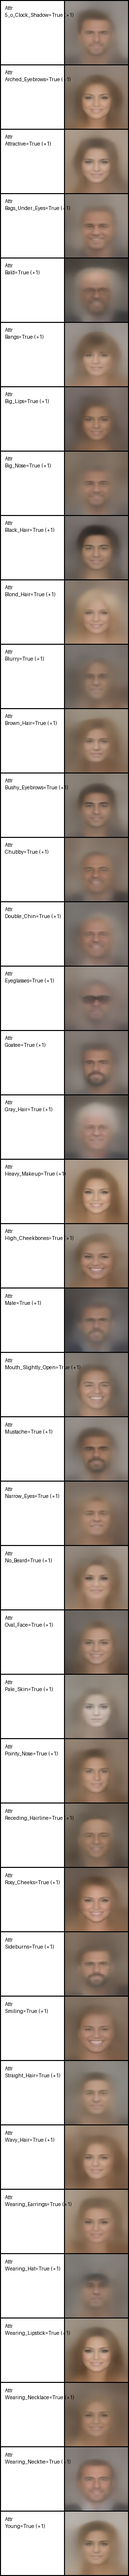
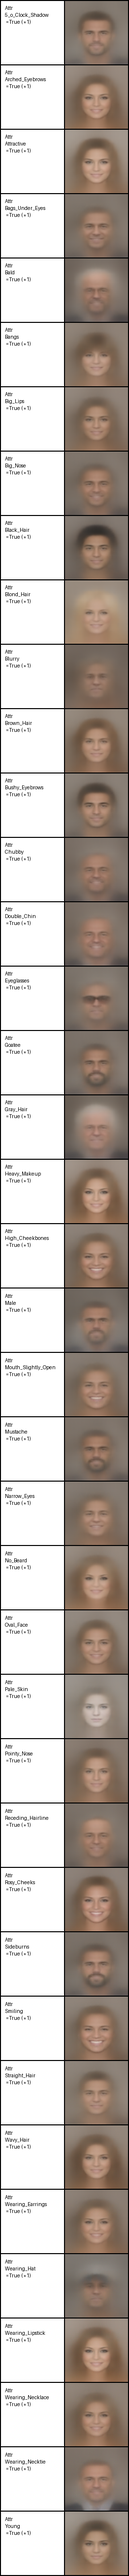
Feat: Fully Calculated test_only.png

diff --git a/src/core/experiment.py b/src/core/experiment.py
@@ -78,7 +78,7 @@ def save_result_image(
         draw.text((10, y_position + 10), label, fill=(0, 0, 0), font=font)
 
     result_image.save(output_path)
-    print(f"[Experiment] save_image success")
+    print(f"[Experiment] save_image succeed")
 
 
 def __not(
@@ -161,18 +161,18 @@ def run_vae_synthesized_attribute_experiment(
         dataloader = true_celeba_loader,
         device = experiment_config.device
     )
-    print(f"\r[Experiment] extract_average_latent(true_celeba_loader) success")
+    print(f"\r[Experiment] extract_average_latent(true_celeba_loader) succeed")
 
     false_vector = extract_average_latent(
         model = model,
         dataloader = false_celeba_loader,
         device = experiment_config.device
     )
-    print(f"\r[Experiment] extract_average_latent(false_celeba_loader) success")
+    print(f"\r[Experiment] extract_average_latent(false_celeba_loader) succeed")
 
     latent_vector = true_vector - false_vector
     latent_vector = latent_vector.to(experiment_config.device)
-    print(f"\r[Experiment] calculate latent_vector success")
+    print(f"\r[Experiment] Calculated latent_vector")
 
     test_images = []
     reconstructed_images = []
@@ -191,7 +191,7 @@ def run_vae_synthesized_attribute_experiment(
     test_images = torch.cat(test_images, dim=0)
     reconstructed_images = torch.cat(reconstructed_images, dim=0)
     transformed_images = torch.cat(transformed_images, dim=0)
-    print(f"\r[Experiment] apply attribute_vector success")
+    print(f"\r[Experiment] Applied attribute_vector")
 
     labels = [
         "Original",
@@ -294,7 +294,7 @@ def run_vae_multi_attribute_experiment(
             device = experiment_config.device
         )
         true_vector_list.append(true_vector)
-        print(f"\r[Experiment] extract_average_latent(true_celeba_loader_{i}) success")
+        print(f"\r[Experiment] extract_average_latent(true_celeba_loader_{i}) succeed")
 
     false_vector_list = []
     for i in range(filter_length):
@@ -304,14 +304,14 @@ def run_vae_multi_attribute_experiment(
             device = experiment_config.device
         )
         false_vector_list.append(false_vector)
-        print(f"\r[Experiment] extract_average_latent(false_celeba_loader_{i}) success")
+        print(f"\r[Experiment] extract_average_latent(false_celeba_loader_{i}) succeed")
 
     latent_vector_list = []
     for i in range(filter_length):
         latent_vector = true_vector_list[i] - false_vector_list[i]
         latent_vector = latent_vector.to(experiment_config.device)
         latent_vector_list.append(latent_vector)
-    print(f"\r[Experiment] calculate latent_vector success")
+    print(f"\r[Experiment] Calculated latent_vector")
 
     test_images = []
     reconstructed_images = []
@@ -348,7 +348,7 @@ def run_vae_multi_attribute_experiment(
         all_transformed_images = torch.cat(all_transformed_images, dim=0)
     else:
         all_transformed_images = torch.tensor([], device="cpu")
-    print(f"\r[Experiment] apply attribute_vector success")
+    print(f"\r[Experiment] Applied attribute_vector")
 
     labels = ["Original", "Reconstructed"]
     for i in range(filter_length):
@@ -383,7 +383,9 @@ def run_vae_multi_attribute_experiment(
 def run_vae_only_attribute_experiment(
         model: VAE,
         dataset_config: DatasetConfig,
-        experiment_config: ExperimentConfig
+        experiment_config: ExperimentConfig,
+        attr_output_path: Optional[str] = None,
+        attr_output_name: Optional[str] = None
     ) -> None:
     print(f"[Experiment] {"=" * 60}")
     print(f"[Experiment] VAE Only Attribute Experiment")
@@ -436,7 +438,7 @@ def run_vae_only_attribute_experiment(
             device = experiment_config.device
         )
         true_vector_list.append(true_vector)
-        print(f"\r[Experiment] extract_average_latent(true_celeba_loader_{i}) success")
+        print(f"\r[Experiment] extract_average_latent(true_celeba_loader_{i}) succeed")
 
     false_vector_list = []
     for i in range(filter_length):
@@ -446,14 +448,14 @@ def run_vae_only_attribute_experiment(
             device = experiment_config.device
         )
         false_vector_list.append(false_vector)
-        print(f"\r[Experiment] extract_average_latent(false_celeba_loader_{i}) success")
+        print(f"\r[Experiment] extract_average_latent(false_celeba_loader_{i}) succeed")
 
     latent_vector_list = []
     for i in range(filter_length):
         latent_vector = true_vector_list[i] - false_vector_list[i]
         latent_vector = latent_vector.to(experiment_config.device)
         latent_vector_list.append(latent_vector)
-    print(f"\r[Experiment] calculate latent_vector success")
+    print(f"\r[Experiment] Calculated latent_vector")
 
     attr_images = []
     with torch.no_grad():
@@ -461,7 +463,7 @@ def run_vae_only_attribute_experiment(
             latent_vector = experiment_config.scale[i] * latent_vector_list[i].unsqueeze(0)
             attr_images.append(model.decode(latent_vector).clamp(0.0, 1.0).cpu())
     attr_images = torch.cat(attr_images, dim=0)
-    print(f"\r[Experiment] calculate attr_images success")
+    print(f"\r[Experiment] Calculated attr_images")
 
     labels = []
     for i in range(filter_length):

diff --git a/src/core/dataset.py b/src/core/dataset.py
@@ -95,7 +95,7 @@ class CelebADataset(Dataset):
         if self.num_calc_samples:
             self.image_list = self.image_list[:self.num_calc_samples]
 
-        print(f"[Dataset] CelebADataset __init__ success ({len(self.image_list)})")
+        print(f"[Dataset] CelebADataset __init__ succeed ({len(self.image_list)})")
 
     def __len__(self) -> int:
         return len(self.image_list)
@@ -145,6 +145,6 @@ def get_celeba_loader(
         pin_memory = not (torch.backends.mps.is_available() and torch.backends.mps.is_built())
     )
 
-    print(f"[Dataset] get_celeba_loader success {f"({list(map(lambda x: x.value, filter_attr))}={filter_value})" if isinstance(filter_attr, list) and isinstance(filter_value, list) else (f"({filter_attr.value}={filter_value})" if isinstance(filter_attr, CelebAFeature) and isinstance(filter_value, bool) else "")}")
+    print(f"[Dataset] get_celeba_loader succeed {f"({list(map(lambda x: x.value, filter_attr))}={filter_value})" if isinstance(filter_attr, list) and isinstance(filter_value, list) else (f"({filter_attr.value}={filter_value})" if isinstance(filter_attr, CelebAFeature) and isinstance(filter_value, bool) else "")}")
     return dataloader
 

diff --git a/src/main.py b/src/main.py
@@ -83,9 +83,11 @@ def main() -> None:
             filter_attr = config.filter_attr,
             filter_value = config.filter_value,
             scale = config.scale,
-            output_path = os.path.join(config.output_path, 'test_only.png'),
+            output_path = os.path.join(config.output_path, "test_only.png"),
             device = config.device,
-        )
+        ),
+        attr_output_path = os.path.join(config.output_path, "attr"),
+        attr_output_name = os.path.split(config.model_path)[1][:-4]
     )
 
 
